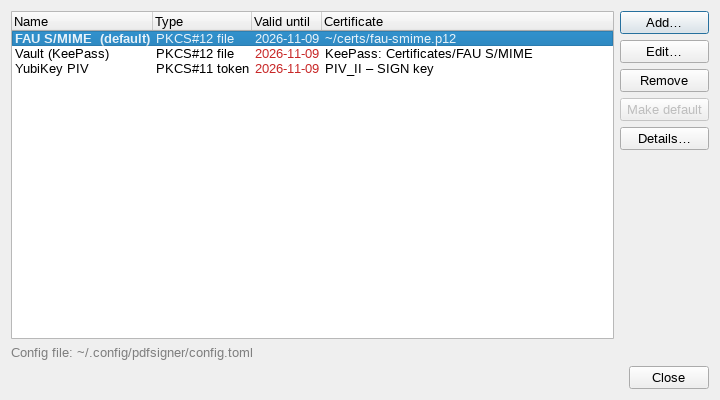
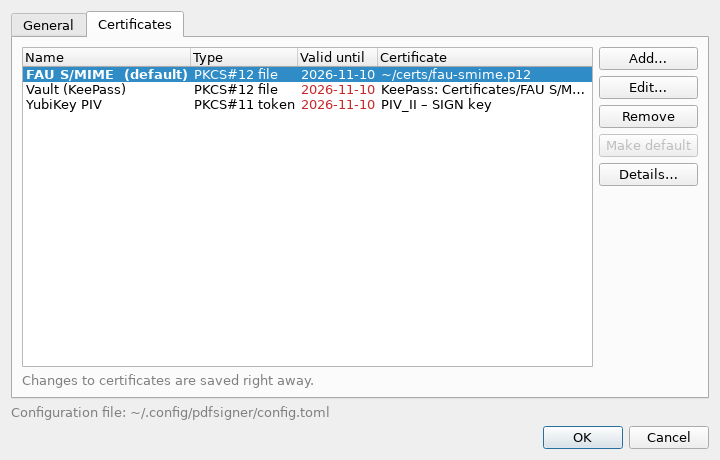
Settings: certificate management moves into a Certificates tab
The certificate manager is now a tab of the Settings dialog (General,
Certificates) instead of a dialog of its own; Certificates… in the ribbon
opens Settings on that tab. Profile changes are still saved at once, so
the main window takes them over even when Settings is cancelled, while
language and trust roots wait for OK.

diff --git a/tests/test_gui.py b/tests/test_gui.py
@@ -13,7 +13,7 @@ from pyhanko.sign import fields  # noqa: E402
 from pdfsigner.config import CertProfile, Config, load_config  # noqa: E402
 from pdfsigner.gui import app as gui_app  # noqa: E402
 from pdfsigner.gui import certdialog  # noqa: E402
-from pdfsigner.gui.certdialog import CertEditDialog, CertManagerDialog  # noqa: E402
+from pdfsigner.gui.certdialog import CertEditDialog, CertManager  # noqa: E402
 from pdfsigner.gui.pageview import FieldItem, SignatureItem  # noqa: E402
 from pdfsigner.signing import inspect_pdf  # noqa: E402
 
@@ -665,7 +665,7 @@ def certs_cfg(tmp_path, p12, sig_image):
 
 @pytest.fixture
 def manager(qapp, certs_cfg):
-    d = CertManagerDialog(certs_cfg)
+    d = CertManager(certs_cfg)
     d.show()
     yield d
     d.close()
@@ -741,7 +741,7 @@ def test_manager_lists_profiles(manager, p12):
 
 
 def test_manager_empty(qapp, tmp_path):
-    d = CertManagerDialog(Config(path=tmp_path / "config.toml"))
+    d = CertManager(Config(path=tmp_path / "config.toml"))
     assert rows(d) == [] and d.current() is None
     assert not d.edit_btn.isEnabled() and not d.remove_btn.isEnabled()
     assert not d.default_btn.isEnabled() and d.add_btn.isEnabled()
@@ -868,16 +868,29 @@ def test_dialog_store_keyring(open_editor, monkeypatch, mem_keyring):
 
 
 def test_manage_updates_main_window(window, monkeypatch, tmp_path):
-    def fake_exec(self):
-        self.config.certs["new"] = CertProfile(name="new", path="x.p12")
-        self.changed = True
-        return 0  # closed
+    """Certificates… opens the settings on their Certificates tab; profiles
+    are saved as they change, so they stay even when the dialog is cancelled."""
+    from pdfsigner.gui import settings as gui_settings
 
-    monkeypatch.setattr(CertManagerDialog, "exec", fake_exec)
-    window.manage_certs()
+    window.config.path = tmp_path / "config.toml"
+    seen = []
+
+    def fake_exec(self):
+        seen.append(self.tabs.currentWidget())
+        self.config.certs["new"] = CertProfile(name="new", path="x.p12")
+        self.certs._write()
+        self.language_combo.setCurrentIndex(self.language_combo.findData("de"))
+        return 0  # cancelled
+
+    monkeypatch.setattr(gui_settings.SettingsDialog, "exec", fake_exec)
+    window.manage_act.trigger()
+    assert [type(w) for w in seen] == [CertManager]
     names = [window.cert_combo.itemData(i) for i in range(window.cert_combo.count())]
     assert names == ["alice", "bob", "new"]
     assert window.cert_combo.currentData() == "alice"  # selection kept
+    saved = load_config(tmp_path / "config.toml")
+    assert "new" in saved.certs and saved.language == ""  # the cancelled language isn't
+    assert window.config.language == ""
 
 
 def wheel(view, scene_pos, delta, modifiers=Qt.ControlModifier):
@@ -1352,8 +1365,8 @@ def test_windows_fit_small_screens(qapp, p12, lang, tmp_path, monkeypatch):
     cfg.put(CertProfile(name="w", path=str(p12[0]), secret="keepassxc", keepass_db="d.kdbx",
                         keepass_entry="e"))
     avail = qapp.primaryScreen().availableGeometry()
-    windows = [gui_app.MainWindow(cfg), CertManagerDialog(cfg), CertEditDialog(cfg, "w"),
-               SettingsDialog(cfg)]
+    windows = [gui_app.MainWindow(cfg), CertEditDialog(cfg, "w"), SettingsDialog(cfg),
+               SettingsDialog(cfg, tab=SettingsDialog.CERTIFICATES)]
     try:
         for w in windows:
             w.show()

diff --git a/src/pdfsigner/gui/settings.py b/src/pdfsigner/gui/settings.py
@@ -1,6 +1,5 @@
-"""Program settings (the config file's top-level keys): language and trust roots.
-
-Certificate profiles have their own dialog (certdialog.CertManagerDialog).
+"""Program settings: language and trust roots (the config file's top-level
+keys) on the General tab, the certificate profiles on the Certificates tab.
 """
 
 from __future__ import annotations
@@ -22,7 +21,9 @@ from PySide6.QtWidgets import (
     QListWidgetItem,
     QMessageBox,
     QPushButton,
+    QTabWidget,
     QVBoxLayout,
+    QWidget,
 )
 
 from .. import i18n
@@ -30,16 +31,23 @@ from ..config import Config, default_config_path
 from ..i18n import _
 from ..signing import SigningError
 from ..validation import load_trust_roots
+from .certdialog import CertManager
 from .screen import ElidedLabel, fit_to_screen
 
 
 class SettingsDialog(QDialog):
-    """Edits a copy of the config; ``config`` holds the result after OK."""
+    """Edits a copy of the config; ``config`` holds the result after OK.
 
-    def __init__(self, config: Config, parent=None):
+    The General tab's changes are saved by OK. The Certificates tab saves
+    each change at once (as ``pdfsigner certs`` does), so ``certs.changed``
+    means ``config`` holds new profiles even after Cancel."""
+
+    GENERAL, CERTIFICATES = 0, 1
+
+    def __init__(self, config: Config, parent=None, tab: int = GENERAL):
         super().__init__(parent)
         self.setWindowTitle(_("Settings"))
-        fit_to_screen(self, 620, 420)
+        fit_to_screen(self, 720, 460)
         self.config = copy.deepcopy(config)
         self.language_changed = False
 
@@ -89,9 +97,20 @@ class SettingsDialog(QDialog):
         box.accepted.connect(self._save)
         box.rejected.connect(self.reject)
 
-        lay = QVBoxLayout(self)
+        general_tab = QWidget()
+        lay = QVBoxLayout(general_tab)
         lay.addLayout(general)
         lay.addWidget(trust_box, 1)
+        # the same config object: profile changes are saved with the other
+        # settings as they were (language and trust are taken over by OK)
+        self.certs = CertManager(self.config)
+        self.tabs = QTabWidget()
+        self.tabs.addTab(general_tab, _("General"))
+        self.tabs.addTab(self.certs, _("Certificates"))
+        self.tabs.setCurrentIndex(tab)
+
+        lay = QVBoxLayout(self)
+        lay.addWidget(self.tabs, 1)
         lay.addWidget(where)
         lay.addWidget(box)
 
@@ -132,13 +151,15 @@ class SettingsDialog(QDialog):
 
     def _save(self) -> None:
         language = self.language_combo.currentData()
-        self.language_changed = language != self.config.language
+        old = self.config.language, self.config.trust
         self.config.language = language
         self.config.trust = self.trust_paths()
         try:
             self.config.save()
         except OSError as e:
+            self.config.language, self.config.trust = old  # as in the file
             QMessageBox.critical(self, _("Settings"),
                                  _("Cannot save the configuration:\n{error}").format(error=e))
             return
+        self.language_changed = language != old[0]
         self.accept()

diff --git a/src/pdfsigner/gui/certdialog.py b/src/pdfsigner/gui/certdialog.py
@@ -45,7 +45,7 @@ from ..certinfo import STAMP_FIELDS
 from ..signing import SigningError, describe_signer, open_signer
 from . import background
 from .dialogs import ask_secret
-from .screen import ElidedLabel, fit_to_screen, scrollable
+from .screen import fit_to_screen, scrollable
 from .document import render_stamp
 
 SECRET_LABELS = {
@@ -181,15 +181,14 @@ def _path_row(edit: QLineEdit, caption: str, filt: str, field: QWidget | None = 
     return w
 
 
-class CertManagerDialog(QDialog):
-    """The list of certificate profiles. Profiles are edited in
-    :class:`CertEditDialog`; every change is saved to the config file at once."""
+class CertManager(QWidget):
+    """The list of certificate profiles (the Settings dialog's Certificates
+    tab). Profiles are edited in :class:`CertEditDialog`; every change is
+    saved to the config file at once. Works on ``config`` itself."""
 
     def __init__(self, config: Config, parent=None):
         super().__init__(parent)
-        self.setWindowTitle(_("Certificates"))
-        fit_to_screen(self, 720, 400)
-        self.config = copy.deepcopy(config)
+        self.config = config
         self.changed = False  # the config file was written
 
         self.list = QTreeWidget()
@@ -220,15 +219,12 @@ class CertManagerDialog(QDialog):
         main = QHBoxLayout()
         main.addWidget(self.list, 1)
         main.addLayout(side)
-        buttons = QDialogButtonBox(QDialogButtonBox.Close)
-        buttons.rejected.connect(self.reject)
         outer = QVBoxLayout(self)
         outer.addLayout(main)
-        hint = ElidedLabel(_("Config file: {path}").format(path=self.config.path))
-        hint.setTextInteractionFlags(Qt.TextSelectableByMouse)
+        hint = QLabel(_("Changes to certificates are saved right away."))
+        hint.setWordWrap(True)
         hint.setStyleSheet("color: gray")
         outer.addWidget(hint)
-        outer.addWidget(buttons)
 
         self._refresh_list()
 

diff --git a/src/pdfsigner/gui/app.py b/src/pdfsigner/gui/app.py
@@ -54,7 +54,7 @@ from ..signing import (
     stamp_size,
 )
 from . import background, ribbon, watchdog
-from .certdialog import CertManagerDialog, details_dialog
+from .certdialog import details_dialog
 from .screen import fit_to_screen, scrollable
 from .settings import SettingsDialog
 from .dialogs import ask_secret
@@ -415,12 +415,16 @@ class MainWindow(QMainWindow):
     def open_docs(self) -> None:
         QDesktopServices.openUrl(QUrl(DOCS_URL))
 
-    def settings_dialog(self) -> None:
-        dlg = SettingsDialog(self.config, self)
-        if not dlg.exec():
+    def settings_dialog(self, tab: int = SettingsDialog.GENERAL) -> None:
+        dlg = SettingsDialog(self.config, self, tab)
+        accepted = dlg.exec()
+        if not (accepted or dlg.certs.changed):
             return
+        # after Cancel, dlg.config is the old settings with the saved profiles
         trust_changed = dlg.config.trust != self.config.trust
         self.config = dlg.config
+        if dlg.certs.changed:
+            self._reload_certs()
         if trust_changed and self.data is not None:
             self.statusBar().showMessage(self._verify() or _(HINT))
         if dlg.language_changed:
@@ -428,11 +432,7 @@ class MainWindow(QMainWindow):
                                     _("The new language is used after restarting PDF Signer."))
 
     def manage_certs(self) -> None:
-        dlg = CertManagerDialog(self.config, self)
-        dlg.exec()
-        if dlg.changed:  # changes are saved as they are made
-            self.config = dlg.config
-            self._reload_certs()
+        self.settings_dialog(SettingsDialog.CERTIFICATES)
 
     # documents ----------------------------------------------------------------
 

diff --git a/scripts/make_screenshots.py b/scripts/make_screenshots.py
@@ -28,7 +28,8 @@ from cryptography.hazmat.primitives import serialization  # noqa: E402
 
 from pdfsigner.config import CertProfile, Config  # noqa: E402
 from pdfsigner.gui import app as gui_app  # noqa: E402
-from pdfsigner.gui.certdialog import CertEditDialog, CertManagerDialog  # noqa: E402
+from pdfsigner.gui.certdialog import CertEditDialog  # noqa: E402
+from pdfsigner.gui.settings import SettingsDialog  # noqa: E402
 
 OUT = ROOT / "docs" / "images"
 A4_H = 842
@@ -222,7 +223,7 @@ def main() -> None:
 
     docs_cfg = Config(certs={"FAU S/MIME": alice, "Vault (KeePass)": vault, "YubiKey PIV": token},
                       default="FAU S/MIME", path=Path("~/.config/pdfsigner/config.toml"))
-    d = CertManagerDialog(docs_cfg, win)
+    d = SettingsDialog(docs_cfg, win, SettingsDialog.CERTIFICATES)
     d.show()
     QTest.qWaitForWindowExposed(d)
     grab(d, "gui-certs.png")

diff --git a/docs/gui.md b/docs/gui.md
@@ -122,8 +122,8 @@ see now is not exactly what was signed. The tooltip says which changes.
 
 Click a signature to jump to its page. Double-click it (or click the signed
 field on the page) for its details: the verdict, time, what it covers and
-any problems, then the signer's certificate in the same form as *Manage…* →
-*Details…* shows your own, and pyHanko's full report behind *Full report…*.
+any problems, then the signer's certificate in the same form as
+*Certificates…* → *Details…* shows your own, and pyHanko's full report behind *Full report…*.
 The tooltip shows what the signature covers. Extra trusted roots come from
 *Settings…* (or `trust = [...]` in the config file, see
 [cli.md](cli.md#check-signatures-pdfsigner-verify)).
@@ -166,7 +166,8 @@ command line (see [cli.md](cli.md#page-tools-rotate-crop-delete-split-merge)).
 
 ## Settings
 
-**Settings…** on the ribbon's *Home* tab edits what applies to all profiles:
+**Settings…** on the ribbon's *Home* tab has two tabs. *General* is what
+applies to all profiles:
 
 * **Language:** system default, English or Deutsch.
 * **Additional trusted certificates:** your organisation's CA, or colleagues'
@@ -176,13 +177,16 @@ command line (see [cli.md](cli.md#page-tools-rotate-crop-delete-split-merge)).
   open document is checked again when you press OK.
 
 Both are stored in the config file (`language`, `trust`), together with the
-profiles.
+profiles; **OK** saves them, **Cancel** discards them.
+
+*Certificates* holds the certificate profiles (see below).
 
 ## Managing certificates
 
-*Manage…* opens the certificate manager. It edits the same config file as
-`pdfsigner certs`. It lists the profiles with their type, the certificate's
-expiry date (red when less than 30 days are left) and where the key is:
+**Certificates…** (ribbon, *Home* tab) opens the settings on their
+*Certificates* tab. It edits the same config file as `pdfsigner certs`. It
+lists the profiles with their type, the certificate's expiry date (red when
+less than 30 days are left) and where the key is:
 
 ![Certificate manager](images/gui-certs.png)
 
@@ -193,8 +197,8 @@ expiry date (red when less than 30 days are left) and where the key is:
   validity, key type, key usage and fingerprints. No PIN is needed.
 
 Every change is written to the config file right away: the editor's **Save**
-for one profile, *Remove* and *Make default* immediately. **Cancel** in the
-editor discards its changes.
+for one profile, *Remove* and *Make default* immediately; the settings'
+**Cancel** doesn't undo them. **Cancel** in the editor discards its changes.
 
 In the editor, the name is set when the profile is created and can't be
 changed afterwards. **Test: unlock and show certificate** unlocks the key and

diff --git a/README.md b/README.md
@@ -81,7 +81,7 @@ pdfsigner certs edit work --stamp-text ''   # image only, no text
 ```
 
 Profiles live in `config.toml` in the config directory above (or
-`$PDFSIGNER_CONFIG`, or `--config`). The GUI's *Manage…* dialog edits the same file. Example:
+`$PDFSIGNER_CONFIG`, or `--config`). The GUI's *Settings…* dialog edits the same file. Example:
 
 ```toml
 default = "work"

diff --git a/docs/cli.md b/docs/cli.md
@@ -702,8 +702,8 @@ pdfsigner --config ./signing.toml sign report.pdf
 
 ## Config file format
 
-`pdfsigner certs` and the GUI's *Manage…* and *Settings…* dialogs write
-this file. You can also edit it by hand:
+`pdfsigner certs` and the GUI's *Settings…* dialog (with its *Certificates* tab)
+write this file. You can also edit it by hand:
 
 ```toml
 default = "work"
